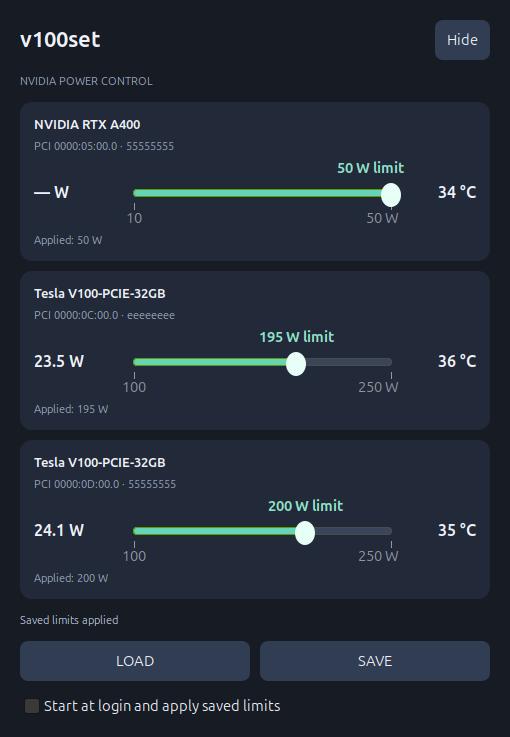
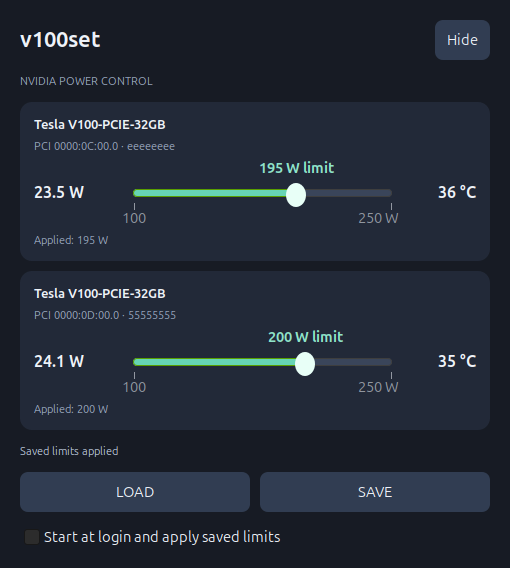
Fix tray window activation and restrict controls to V100 in 5 W steps

diff --git a/v100set/app.py b/v100set/app.py
@@ -9,7 +9,7 @@ gi.require_version("Gtk", "3.0")
 gi.require_version("AyatanaAppIndicator3", "0.1")
 from gi.repository import AyatanaAppIndicator3 as Indicator, Gio, GLib, Gtk, Gdk
 
-from .core import Settings, apply_limit, discover, load_targets
+from .core import Settings, apply_limit, discover, load_targets, snap_limit, is_v100
 
 CSS = b"""
 window { background: #171b24; color: #eef2f8; }
@@ -51,7 +51,7 @@ class Card(Gtk.Box):
         self.temp.set_size_request(60, -1)
         self.scale = Gtk.Scale.new_with_range(Gtk.Orientation.HORIZONTAL,
                                              gpu.minimum if gpu.adjustable else 0,
-                                             gpu.maximum if gpu.adjustable else 1, 1)
+                                             gpu.maximum if gpu.adjustable else 1, 5)
         self.scale.set_digits(0)
         self.scale.set_value_pos(Gtk.PositionType.TOP)
         self.scale.connect("format-value", lambda _, value: f"{value:.0f} W limit")
@@ -94,6 +94,7 @@ class App(Gtk.Application):
         self.settings = Settings()
         self.window = None
         self.cards = {}
+        self.detected = []
         self.pending = {}
         self.timers = {}
         self.busy = set()
@@ -115,8 +116,7 @@ class App(Gtk.Application):
 
     def activate(self, _app):
         if self.window:
-            self.window.show_all()
-            self.window.present()
+            self.show_panel()
             return
         try:
             data = self.settings.read()
@@ -135,6 +135,8 @@ class App(Gtk.Application):
         Gtk.StyleContext.add_provider_for_screen(Gdk.Screen.get_default(), provider,
                                                 Gtk.STYLE_PROVIDER_PRIORITY_APPLICATION)
         self.window = Gtk.ApplicationWindow(application=self, title="v100set")
+        self.window.set_wmclass("v100set", "v100set")
+        self.window.set_icon_name("v100set")
         self.window.set_default_size(510, -1)
         self.window.set_resizable(False)
         self.window.set_position(Gtk.WindowPosition.CENTER)
@@ -187,9 +189,9 @@ class App(Gtk.Application):
         menu.append(quit_item)
         menu.show_all()
         self.indicator.set_menu(menu)
-        self.window.show_all()
-        if self.startup:
-            self.window.hide()
+        outer.show_all()
+        if not self.startup:
+            self.show_panel()
         self.poll()
         self.poll_source = GLib.timeout_add_seconds(2, self.poll)
 
@@ -203,6 +205,12 @@ class App(Gtk.Application):
         if self.window:
             self.indicator.set_status(Indicator.IndicatorStatus.PASSIVE)
             self.window.destroy()
+
+    def show_panel(self):
+        self.window.show_all()
+        self.window.deiconify()
+        self.window.set_position(Gtk.WindowPosition.CENTER)
+        self.window.present_with_time(Gtk.get_current_event_time())
 
     def hide(self):
         self.window.hide()
@@ -248,6 +256,8 @@ class App(Gtk.Application):
             self.save_button.set_sensitive(False)
             self.load_button.set_sensitive(False)
         else:
+            self.detected = gpus
+            gpus = [gpu for gpu in gpus if is_v100(gpu)]
             ids = {g.uuid for g in gpus}
             for uuid in list(self.cards):
                 if uuid not in ids:
@@ -265,7 +275,7 @@ class App(Gtk.Application):
             self.rows.show_all()
             self.controls()
             if self.attempts == 1:
-                self.message(f"{len(gpus)} NVIDIA GPU(s) · Drag a slider to set its limit" if gpus else "No NVIDIA GPUs detected")
+                self.message(f"{len(gpus)} V100 GPU(s) · Drag a slider to set its limit" if gpus else "No V100 GPUs detected")
             if self.restore_on_start and gpus:
                 self.restore_on_start = False
                 self.load()
@@ -275,7 +285,9 @@ class App(Gtk.Application):
         return False
 
     def changed(self, uuid, watts):
-        self.pending[uuid] = round(watts)
+        watts = snap_limit(self.cards[uuid].gpu, watts)
+        self.cards[uuid].set_value(watts)
+        self.pending[uuid] = watts
         if uuid in self.timers:
             GLib.source_remove(self.timers.pop(uuid))
         self.timers[uuid] = GLib.timeout_add(400, self.dispatch, uuid)
@@ -342,7 +354,7 @@ class App(Gtk.Application):
     def load(self):
         try:
             saved = self.settings.read()["limits"]
-            targets, errors = load_targets([c.gpu for c in self.cards.values()], saved)
+            targets, errors = load_targets(self.detected, saved)
         except (OSError, ValueError) as exc:
             self.message(f"Could not load: {exc}")
             return
@@ -374,6 +386,9 @@ def main():
     parser = argparse.ArgumentParser(description="NVIDIA power controls")
     parser.add_argument("--startup", action="store_true", help="Restore saved limits if autostart is enabled")
     args = parser.parse_args()
+    GLib.set_prgname("v100set")
+    GLib.set_application_name("v100set")
+    Gtk.Window.set_default_icon_name("v100set")
     app = App(args.startup)
     try:
         return app.run([])

diff --git a/tests/gui_smoke.py b/tests/gui_smoke.py
@@ -37,10 +37,11 @@ def later(ms,func):
     GLib.timeout_add(ms,guarded)
 
 def start():
-    assert len(application.cards)==3, 'GPU rows missing'
+    assert len(application.cards)==2 and A not in application.cards, 'GPU rows missing'
     application.cards[B].scale.set_value(199)
     application.cards[B].scale.set_value(198)
-    application.cards[B].scale.set_value(195)
+    application.cards[B].scale.set_value(193)
+    assert application.cards[B].scale.get_value() == 195
     later(1000,saved)
 
 def saved():
@@ -71,7 +72,7 @@ def finish():
         size=application.window.get_size()
         image=Gdk.pixbuf_get_from_window(window,0,0,size.width,size.height)
         image.savev(sys.argv[1],'png',[],[])
-    print('GUI PASS: 3 cards, debounced live apply, SAVE, LOAD, autostart on/off')
+    print('GUI PASS: 2 V100 cards, A400 excluded, 5 W snapping, debounced live apply, SAVE, LOAD, autostart on/off')
     application.quit()
 
 with patch.object(ui,'discover',side_effect=lambda:list(gpus)), patch.object(ui,'apply_limit',side_effect=apply):
@@ -93,7 +94,13 @@ with patch.object(ui,'discover',side_effect=lambda:list(gpus)), patch.object(ui,
             assert not application.window.get_visible(), 'Startup should remain in tray'
             assert gpus[1].limit==195, 'Startup did not restore saved limit'
             assert not application.restore_on_start
-            print('GUI PASS: enabled login startup restores saved limits and stays hidden')
+            application.show_panel()
+            assert application.window.get_visible()
+            application.hide()
+            application.activate(application)
+            assert application.window.get_visible()
+            assert all(uuid != A for uuid, _ in calls)
+            print('GUI PASS: window reopens; enabled login startup restores saved limits and stays hidden')
             application.quit()
         later(1800,check_startup)
         application.run([])

diff --git a/v100set/core.py b/v100set/core.py
@@ -4,6 +4,7 @@ import csv
 import json
 import math
 import os
+import re
 from pathlib import Path
 import subprocess
 import tempfile
@@ -43,6 +44,19 @@ class GPU:
         if not self.adjustable or value is None or not self.minimum <= value <= self.maximum:
             raise ValueError(f"{self.name}: power limit is outside the supported range")
         return value
+
+
+def is_v100(gpu):
+    return re.search(r"\bV100(?:S)?\b", gpu.name, re.IGNORECASE) is not None
+
+
+def snap_limit(gpu, watts):
+    """Round user selections to a 5 W grid inside the driver's range."""
+    low = math.ceil(gpu.minimum / 5) * 5
+    high = math.floor(gpu.maximum / 5) * 5
+    if low > high:
+        raise ValueError("No supported 5 W power limit")
+    return max(low, min(high, math.floor(watts / 5 + 0.5) * 5))
 
 
 def parse_gpus(output):
@@ -121,7 +135,7 @@ class Settings:
                 atomic_write(self.autostart, "[Desktop Entry]\nType=Application\nName=v100set\n"
                              "Comment=Restore saved NVIDIA power limits\n"
                              "Exec=/usr/local/bin/v100set --startup\nIcon=v100set\n"
-                             "Terminal=false\nX-GNOME-Autostart-enabled=true\n")
+                             "StartupWMClass=v100set\nTerminal=false\nX-GNOME-Autostart-enabled=true\n")
             else:
                 self.autostart.unlink(missing_ok=True)
         except OSError:
@@ -137,10 +151,10 @@ class Settings:
 def load_targets(gpus, saved):
     targets, errors = {}, []
     for gpu in gpus:
-        if gpu.uuid not in saved:
+        if not is_v100(gpu) or gpu.uuid not in saved:
             continue
         try:
-            targets[gpu.uuid] = gpu.validate(saved[gpu.uuid])
+            targets[gpu.uuid] = snap_limit(gpu, gpu.validate(saved[gpu.uuid]))
         except ValueError as exc:
             errors.append(str(exc))
     missing = set(saved) - {g.uuid for g in gpus}

diff --git a/tests/test_core.py b/tests/test_core.py
@@ -24,7 +24,7 @@ class HardwareTests(unittest.TestCase):
 
     def test_saved_uuid_survives_device_reordering(self):
         targets, errors = load_targets(list(reversed(parse_gpus(SAMPLE))), {A: 175, B: 45})
-        self.assertEqual(targets, {A: 175, B: 45})
+        self.assertEqual(targets, {A: 175})
         self.assertEqual(errors, [])
 
     def test_removed_gpu_and_invalid_limit_are_not_applied(self):

diff --git a/v100set/__init__.py b/v100set/__init__.py
@@ -1,3 +1,3 @@
 """v100set — NVIDIA power controls for the Linux desktop."""
 
-__version__ = "0.1.0"
+__version__ = "0.1.1"

diff --git a/README.md b/README.md
@@ -1,10 +1,10 @@
 # v100set
 
-A small Linux tray app for live NVIDIA GPU power limits. Built for Tesla V100 workstations; discovers all NVIDIA GPUs supported by `nvidia-smi`.
+A small Linux tray app for live NVIDIA GPU power limits. Built for Tesla V100 workstations; shows only V100/V100S GPUs reported by `nvidia-smi`.
 
-Each GPU has a card with **live power draw on the left**, a **power-limit slider in the middle**, and **temperature on the right**. Limits are shown in watts, within the range reported by the driver. Missing sensor readings show a dash; unsupported power controls are disabled.
+Each V100 has a card with **live power draw on the left**, a **power-limit slider in the middle**, and **temperature on the right**. Sliders snap to 5 W increments, within the range reported by the driver. Missing sensor readings show a dash; unsupported power controls are disabled.
 
-![v100set control panel with three simulated GPUs](assets/preview.png)
+![v100set control panel with two simulated V100 GPUs](assets/preview.png)
 
 *Preview uses simulated telemetry.*
 
@@ -26,7 +26,7 @@ The installer adds GTK 3 and Ayatana AppIndicator bindings when missing. It does
 - Open the tray icon → **Power controls**. On supported desktops, middle-click opens the panel directly. AppIndicator hosts own the tray menu, so opening it is not a custom slider popup inside the system volume menu.
 - Drag a slider to change the limit live. Changes are debounced by 400 ms and verified against the driver. GPU identity uses UUID, never a possibly changing index.
 - **SAVE** stores the selected limits in `~/.config/v100set/settings.json`.
-- **LOAD** reads those values and applies them to matching GPUs. Missing devices and invalid saved limits are reported rather than assigned to a different card.
+- **LOAD** reads those values and applies them to matching V100 GPUs. Older saved limits are rounded to the nearest supported 5 W step; entries for other cards are ignored. Missing devices and invalid saved limits are reported rather than assigned to a different card.
 - **Start at login and apply saved limits** installs an XDG desktop autostart entry. When enabled, the app starts hidden in the tray and restores saved limits after graphical login, retrying initial GPU discovery briefly.
 - Unchecking autostart removes that entry. v100set will neither launch nor apply limits at the next login. It does **not** reset limits currently applied, or disable settings from unrelated software.
 - Closing or hiding the window keeps the tray app running. **Quit v100set** exits; already applied limits remain managed by the driver.
@@ -41,17 +41,7 @@ The GUI runs as your normal user. A small root-owned helper at `/usr/local/libex
 
 The helper uses isolated system Python, a fixed `nvidia-smi` path and a clean environment. It validates exactly two arguments, verifies the UUID and the GPU's current minimum/maximum limits, sets only its power limit and reads it back. It accepts no command paths, configuration files, shell snippets or other NVIDIA operations. This grants the selected local user permission to change supported NVIDIA power limits; it is not a general sudo grant. Keep the helper and its parent directories root-owned.
 
-Only GPUs discovered by the NVIDIA driver are shown; AMD/Intel power control is not implemented. A card can advertise a range yet reject a change due to device/driver restrictions; the app reports that error.
-
-## Existing power-limit services
-
-If you previously created a service named `v100-power-limit.service`, it would continue applying its own boot limits independently. To explicitly disable that service during installation, preserving its files and current GPU limits:
-
-```bash
-sudo bash install.sh "$USER" --replace-v100-service
-```
-
-Other power-control tools are not modified. To restore the old service later, use `sudo systemctl enable v100-power-limit.service`.
+Only V100/V100S GPUs discovered by the NVIDIA driver are shown; AMD/Intel power control is not implemented. A card can advertise a range yet reject a change due to device/driver restrictions; the app reports that error.
 
 ## Development and tests
 
@@ -61,7 +51,7 @@ python3 tests/gui_smoke.py
 python3 run.py
 ```
 
-The tests use simulated GPU responses and temporary settings directories; they never change hardware limits. The GUI smoke test requires a graphical session and checks three cards, slider debouncing, LOAD/SAVE, the autostart toggle and hidden startup restoration. Real hardware acceptance should include telemetry and a small reversible limit change.
+The tests use simulated GPU responses and temporary settings directories; they never change hardware limits. The GUI smoke test requires a graphical session and checks two V100 cards, exclusion of A400, 5 W snapping, window reopening, slider debouncing, LOAD/SAVE, the autostart toggle and hidden startup restoration. Real hardware acceptance should include telemetry and a small reversible limit change.
 
 Runtime: Python 3.10+, PyGObject, GTK 3, Ayatana AppIndicator, `sudo`, `nvidia-smi`. Tested on Ubuntu 24.04 with X11; other desktop/tray hosts may present activation differently.
 
